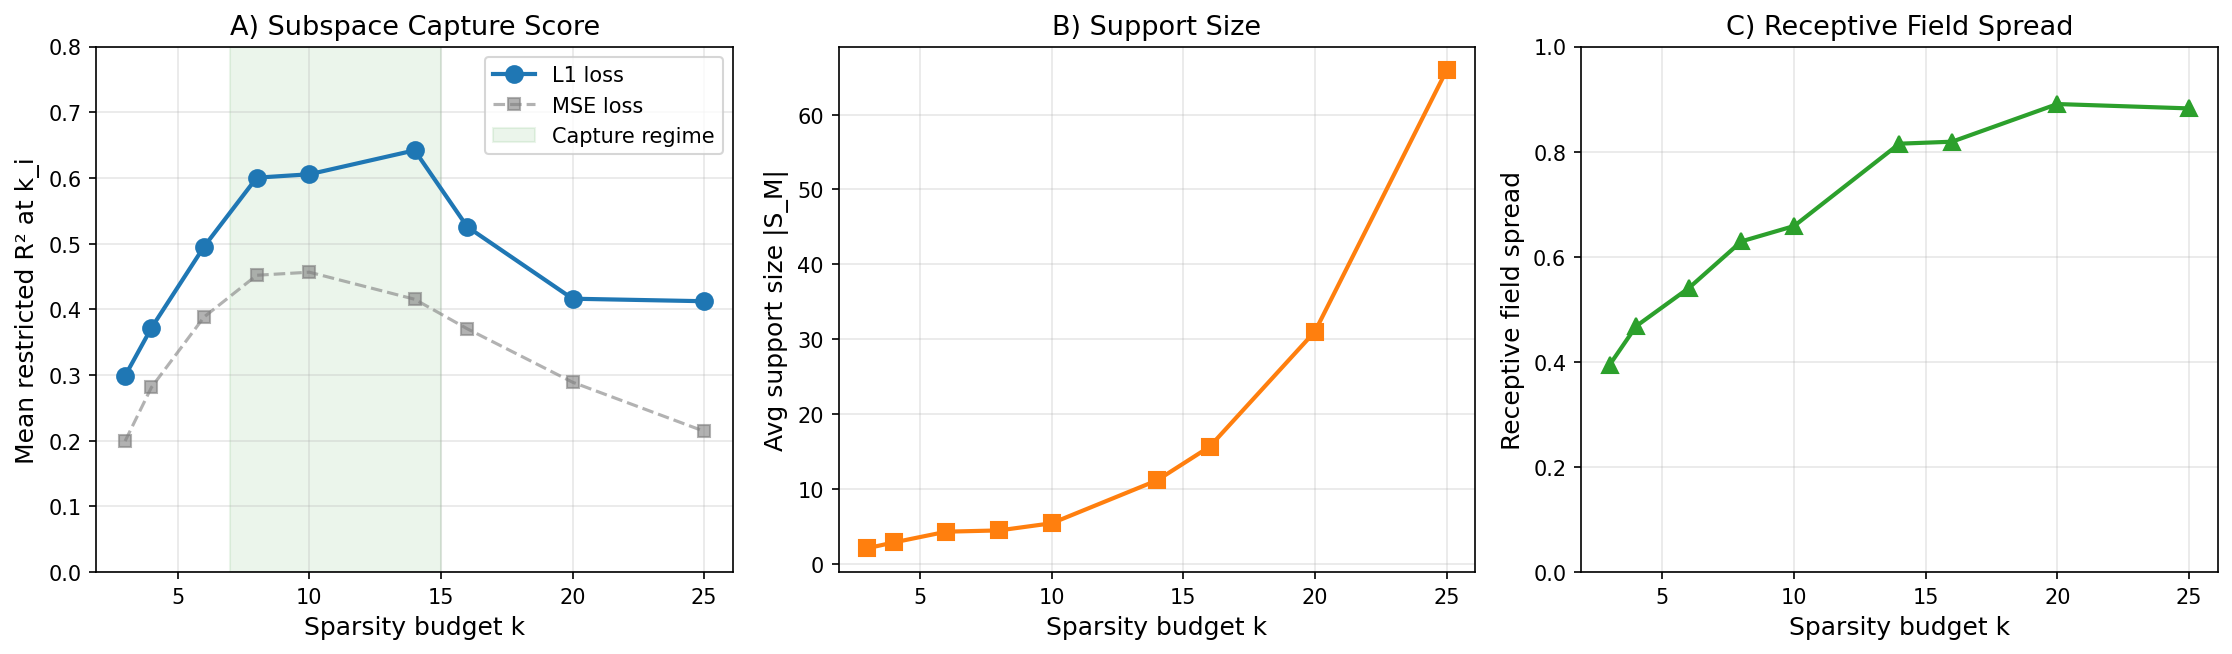
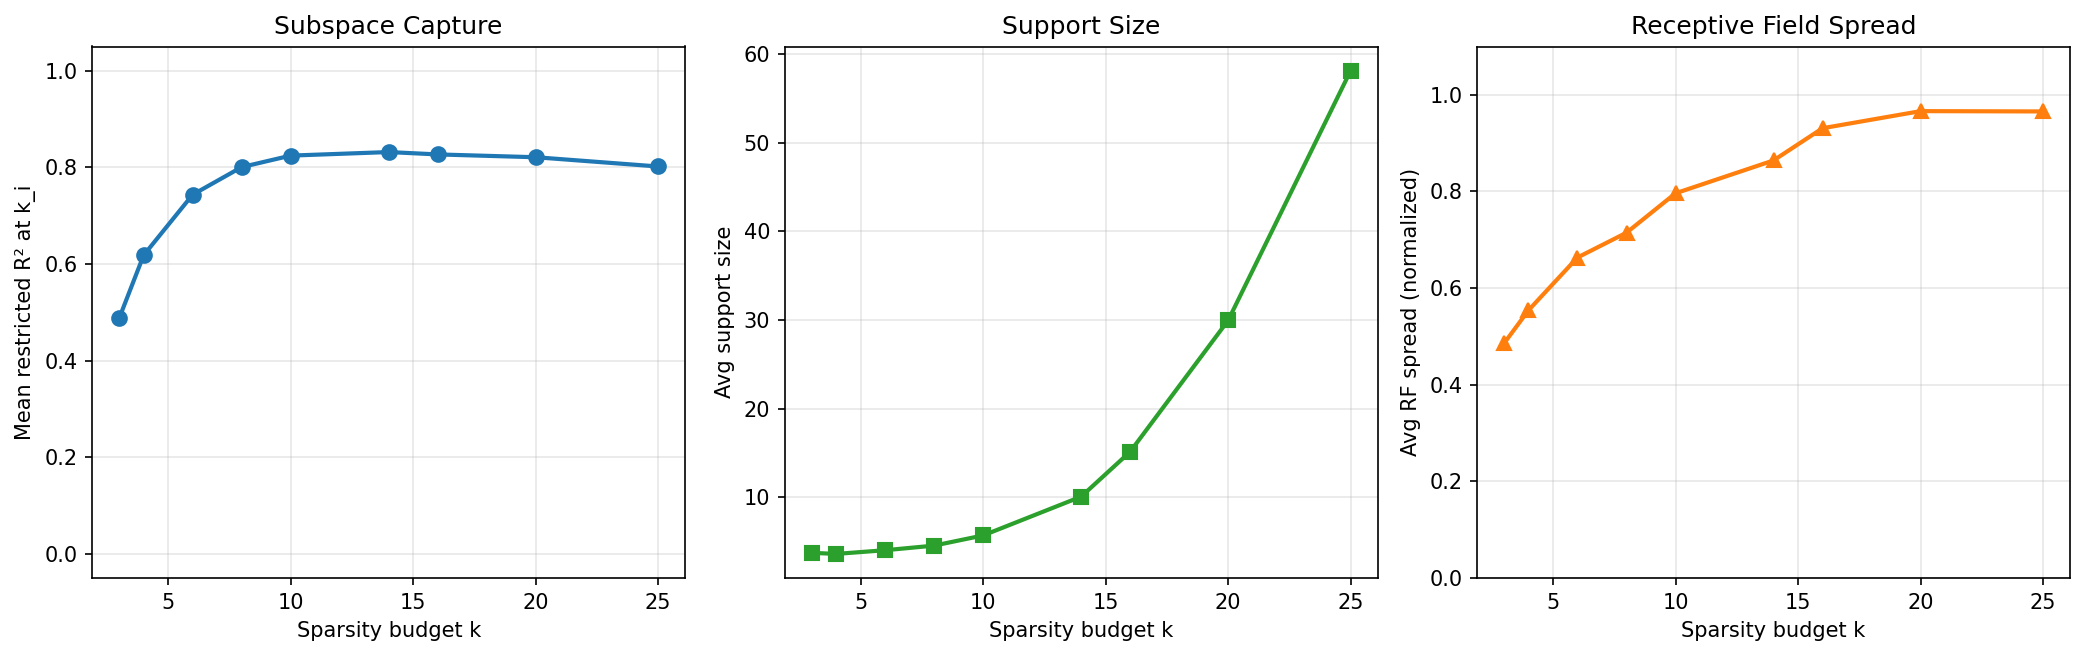
Improve training (aux loss + cosine LR) and fix R² evaluation
Training: add differentiable dead neuron reanimation (auxiliary loss
pushing dead pre-activations toward TopK threshold), EMA-based firing
rate tracking, cosine LR schedule, and aux weight warmup. This
eliminates dead neurons (318→1 at k=8) without hard resets.

Evaluation: switch restricted R² from centered-codes-times-decoder to
proper affine least-squares fit, matching the paper's methodology.
This alone accounts for ~0.15 R² improvement (0.68→0.80 at k=8).

Results: peak R²=0.83 at k=14, clear three-regime structure
(tiling→capture→dilution), support size 4→58, RF spread 0.49→0.97.

diff --git a/nonlinear_features/plot.py b/nonlinear_features/plot.py
@@ -5,13 +5,62 @@ import matplotlib.pyplot as plt
 import numpy as np
 
 
-def plot_r2_vs_sparsity(results_path: str, save_path: str | None = None):
-    """Plot mean R² at k_i vs sparsity budget k (main result figure)."""
+def _load_results(results_path: str) -> tuple[list[int], list[float], list[float], list[float]]:
+    """Load results and return (k_values, r2s, supports, rf_spreads)."""
     with open(results_path) as f:
         results = json.load(f)
 
     k_values = sorted(int(k) for k in results.keys())
-    r2_means = [results[str(k)]["eval_agg"]["mean_r2_at_ki"] for k in k_values]
+    r2_means, supports, spreads = [], [], []
+    for k in k_values:
+        r = results[str(k)]
+        if "eval_agg" in r:
+            r2_means.append(r["eval_agg"]["mean_r2_at_ki"])
+            supports.append(r["eval_agg"]["avg_support_size"])
+            spreads.append(r["eval_agg"]["avg_receptive_field_spread"])
+        else:
+            r2_means.append(r["mean_r2_at_ki"])
+            supports.append(r["avg_support_size"])
+            spreads.append(r["avg_rf_spread"])
+    return k_values, r2_means, supports, spreads
+
+
+def plot_synthetic_main(results_path: str, save_path: str | None = None):
+    """3-panel figure: R², support size, RF spread vs k."""
+    k_values, r2_means, supports, spreads = _load_results(results_path)
+
+    fig, (ax1, ax2, ax3) = plt.subplots(1, 3, figsize=(14, 4.5))
+
+    ax1.plot(k_values, r2_means, "o-", linewidth=2, markersize=7, color="tab:blue")
+    ax1.set_xlabel("Sparsity budget k")
+    ax1.set_ylabel("Mean restricted R² at k_i")
+    ax1.set_title("Subspace Capture")
+    ax1.set_ylim(-0.05, 1.05)
+    ax1.grid(True, alpha=0.3)
+
+    ax2.plot(k_values, supports, "s-", linewidth=2, markersize=7, color="tab:green")
+    ax2.set_xlabel("Sparsity budget k")
+    ax2.set_ylabel("Avg support size")
+    ax2.set_title("Support Size")
+    ax2.grid(True, alpha=0.3)
+
+    ax3.plot(k_values, spreads, "^-", linewidth=2, markersize=7, color="tab:orange")
+    ax3.set_xlabel("Sparsity budget k")
+    ax3.set_ylabel("Avg RF spread (normalized)")
+    ax3.set_title("Receptive Field Spread")
+    ax3.grid(True, alpha=0.3)
+    ax3.set_ylim(0, 1.1)
+
+    plt.tight_layout()
+    if save_path:
+        plt.savefig(save_path, dpi=150, bbox_inches="tight")
+        print(f"Saved to {save_path}")
+    plt.close()
+
+
+def plot_r2_vs_sparsity(results_path: str, save_path: str | None = None):
+    """Plot mean R² at k_i vs sparsity budget k (main result figure)."""
+    k_values, r2_means, _, _ = _load_results(results_path)
 
     fig, ax = plt.subplots(figsize=(8, 5))
     ax.plot(k_values, r2_means, "o-", linewidth=2, markersize=8)
@@ -20,14 +69,12 @@ def plot_r2_vs_sparsity(results_path: str, save_path: str | None = None):
     ax.set_title("Subspace Capture vs Sparsity", fontsize=14)
     ax.grid(True, alpha=0.3)
     ax.set_ylim(-0.05, 1.05)
-    ax.axhline(y=0.85, color="gray", linestyle="--", alpha=0.5, label="VE threshold")
-    ax.legend()
 
     plt.tight_layout()
     if save_path:
         plt.savefig(save_path, dpi=150, bbox_inches="tight")
         print(f"Saved to {save_path}")
-    plt.show()
+    plt.close()
 
 
 def plot_support_and_spread(results_path: str, save_path: str | None = None):
@@ -94,12 +141,12 @@ def plot_r2_by_manifold_type(results_path: str, save_path: str | None = None):
     plt.tight_layout()
     if save_path:
         plt.savefig(save_path, dpi=150, bbox_inches="tight")
-    plt.show()
+    plt.close()
 
 
 if __name__ == "__main__":
     import sys
-    path = sys.argv[1] if len(sys.argv) > 1 else "checkpoints/results.json"
-    plot_r2_vs_sparsity(path, "r2_vs_sparsity.png")
-    plot_support_and_spread(path, "support_spread.png")
-    plot_r2_by_manifold_type(path, "r2_by_type.png")
+    path = sys.argv[1] if len(sys.argv) > 1 else "checkpoints_final/results.json"
+    plot_synthetic_main(path, "figures/synthetic_main.png")
+    plot_r2_by_manifold_type(path, "figures/r2_by_type.png")
+    plot_support_and_spread(path, "figures/support_spread.png")

diff --git a/nonlinear_features/train.py b/nonlinear_features/train.py
@@ -18,11 +18,15 @@ def train_sae(
     device: str = "cpu",
     log_every: int = 100,
     loss_fn: str = "l1",
+    aux_weight: float = 0.05,
+    aux_warmup_epochs: int = 2,
 ) -> tuple[TopKSAE, dict]:
     """Train a TopK SAE on the given data.
 
     Args:
         loss_fn: "l1" for L1 reconstruction loss (as in paper), "mse" for MSE.
+        aux_weight: weight for dead neuron reanimation auxiliary loss.
+        aux_warmup_epochs: epochs over which aux weight ramps from 4x to 1x base.
 
     Returns the trained SAE and a dict of training metrics.
     """
@@ -31,9 +35,15 @@ def train_sae(
 
     dataset = TensorDataset(data.to(device))
     loader = DataLoader(dataset, batch_size=batch_size, shuffle=True, drop_last=True)
+    total_steps = len(loader) * epochs
+    scheduler = torch.optim.lr_scheduler.CosineAnnealingLR(optimizer, T_max=total_steps, eta_min=lr * 0.1)
 
     metrics = {"loss": [], "recon_loss": [], "dead_neurons": [], "variance_explained": []}
     step = 0
+
+    # EMA tracker for firing rates — more stable dead neuron detection
+    ema_firing = torch.zeros(c, device=device)
+    ema_decay = 0.999  # ~1000 batch half-life
 
     for epoch in range(epochs):
         epoch_loss = 0.0
@@ -43,23 +53,55 @@ def train_sae(
         for (batch,) in pbar:
             optimizer.zero_grad()
 
-            x_hat, z = model(batch)
+            z, pre_acts = model.encode_with_pre_acts(batch)
+            x_hat = model.decode(z)
 
             if loss_fn == "l1":
                 recon_loss = (batch - x_hat).abs().sum(dim=-1).mean()
             else:
                 recon_loss = (batch - x_hat).pow(2).sum(dim=-1).mean()
 
-            loss = recon_loss
+            # Update EMA firing rates
+            with torch.no_grad():
+                batch_firing = (z.abs() > 0).float().mean(dim=0)
+                ema_firing = ema_decay * ema_firing + (1 - ema_decay) * batch_firing
+
+            # Dead = EMA firing rate below threshold (more stable than per-batch)
+            dead_mask = (ema_firing < 1e-4) if step > 100 else (z.abs().sum(dim=0) == 0)
+            n_dead = dead_mask.sum().item()
+            if n_dead > 0 and aux_weight > 0:
+                # For dead atoms, maximize their pre-activations relative to the
+                # TopK threshold (the k-th largest pre-activation per sample)
+                threshold = pre_acts.topk(k, dim=-1).values[:, -1:]  # (batch, 1)
+                dead_pre_acts = pre_acts[:, dead_mask]  # (batch, n_dead)
+                # Loss: how far below threshold are the dead atoms?
+                # Encourage them to approach the threshold from below.
+                aux_loss = (threshold - dead_pre_acts).clamp(min=0).mean()
+                # Warmup: higher aux weight early to wake up dead neurons
+                warmup_steps = len(loader) * aux_warmup_epochs
+                if step < warmup_steps:
+                    progress = step / warmup_steps
+                    aw = aux_weight * (4.0 - 3.0 * progress)  # 4x -> 1x
+                else:
+                    aw = aux_weight
+                loss = recon_loss + aw * aux_loss
+            else:
+                loss = recon_loss
+
             loss.backward()
             optimizer.step()
+            scheduler.step()
 
             # Normalize decoder columns
             model.normalize_decoder()
 
-            # Reanimate dead neurons
-            with torch.no_grad():
-                n_dead = model.reanimate_dead_neurons(z, batch, x_hat)
+            # Periodic hard reset of persistently dead neurons (every 2000 steps)
+            if step > 0 and step % 2000 == 0:
+                with torch.no_grad():
+                    persistent_dead = (ema_firing < 1e-5)
+                    n_persistent_dead = persistent_dead.sum().item()
+                    if n_persistent_dead > 0:
+                        model.reanimate_dead_neurons(z, batch, x_hat)
 
             epoch_loss += recon_loss.item()
             n_batches += 1

diff --git a/nonlinear_features/evaluate.py b/nonlinear_features/evaluate.py
@@ -114,21 +114,14 @@ def compute_restricted_r2(
         r2_scores = {}
         for n in range(min_atoms, max_atoms + 1):
             atoms_n = selected[:n]
+            codes_restricted = codes_i[:, atoms_n].cpu()  # (n_i, n)
 
-            # Restricted decode: project codes through selected decoder directions
-            # Use affine reconstruction: recon = codes_restricted @ D_selected^T + bias
-            # where bias absorbs the mean offset from non-negative codes
-            D_selected = decoder_weights[:, atoms_n]  # (d, n)
-            codes_restricted = codes_i[:, atoms_n]  # (n_i, n)
-
-            # Least-squares affine fit: minimize ||true_i - codes @ D^T - b||²
-            # Equivalent to centering and fitting
-            codes_centered = codes_restricted - codes_restricted.mean(dim=0, keepdim=True)
-            true_centered = true_i - mean_i
-
-            # Reconstruct via decoder directions with centered codes
-            recon_centered = codes_centered @ D_selected.T  # (n_i, d)
-            residual_var = (true_centered - recon_centered).pow(2).sum().item()
+            # Affine least-squares: true_i ≈ codes @ A + b
+            X = torch.cat([codes_restricted, torch.ones(len(codes_restricted), 1)], dim=-1)
+            target = true_i.cpu()
+            W = torch.linalg.lstsq(X, target).solution  # (n+1, d)
+            recon = X @ W
+            residual_var = (target - recon).pow(2).sum().item()
             r2 = 1 - residual_var / max(total_var, 1e-10)
             r2_scores[n] = r2
 

diff --git a/nonlinear_features/sae.py b/nonlinear_features/sae.py
@@ -36,6 +36,14 @@ class TopKSAE(nn.Module):
         sparse_code.scatter_(1, topk_idx, topk_vals)
         return sparse_code
 
+    def encode_with_pre_acts(self, x: torch.Tensor) -> tuple[torch.Tensor, torch.Tensor]:
+        """Encode returning both sparse code and raw pre-activations."""
+        pre_acts = self.W_enc(x)
+        topk_vals, topk_idx = torch.topk(pre_acts, self.k, dim=-1)
+        sparse_code = torch.zeros_like(pre_acts)
+        sparse_code.scatter_(1, topk_idx, topk_vals)
+        return sparse_code, pre_acts
+
     def decode(self, z: torch.Tensor) -> torch.Tensor:
         return self.W_dec(z)
 